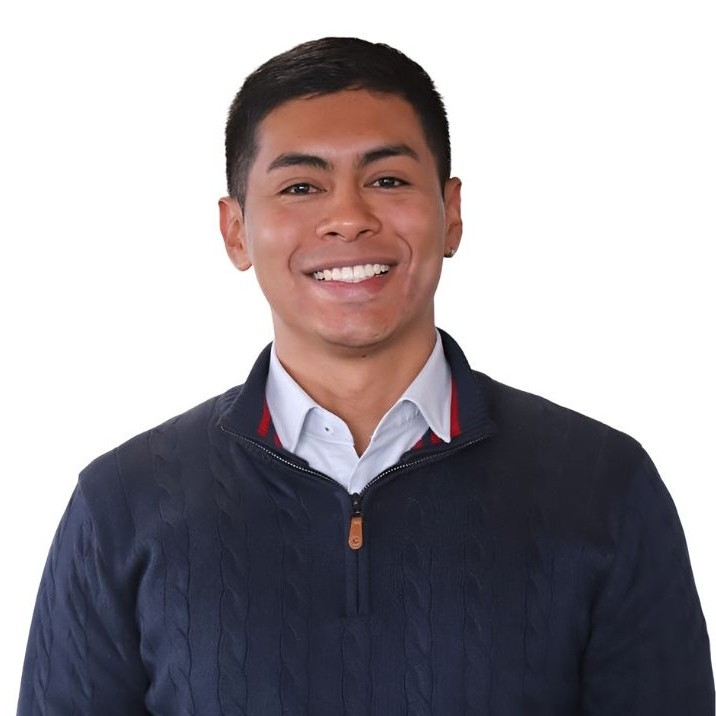
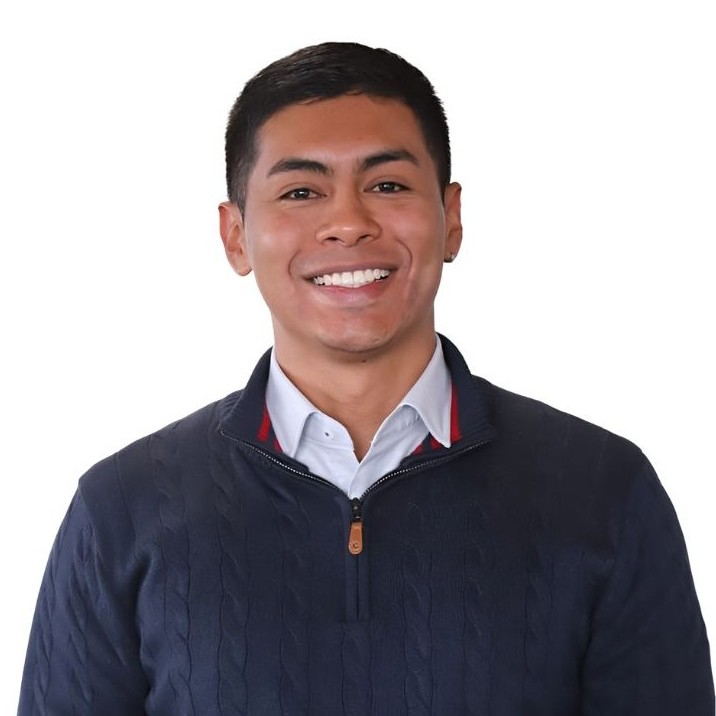
Update academic website

diff --git a/index.html b/index.html
@@ -112,7 +112,7 @@
         </article>
 
         <article class="card compact-card">
-          <h3>Ph.D. in Engineering</h3>
+          <h3>Ph.D. Student in Engineering</h3>
           <p class="muted">Universidad de los Andes · Bogotá, Colombia</p>
         </article>
       </div>
@@ -277,21 +277,19 @@
         <p>Bogotá D.C., Colombia</p>
       </div>
 
-      <div class="social-grid" aria-label="Contact links">
-        <a class="social-link" href="mailto:l.trochez@uniandes.edu.co" aria-label="Email Leffer Trochez">
-          <img src="assets/Email.png" alt="Email" />
-        </a>
+      <p class="contact-icons" aria-label="Contact links">
+        <a href="mailto:l.trochez@uniandes.edu.co" aria-label="Email Leffer Trochez"><img src="assets/Email.png" alt="Email" height="30" valign="middle"></a>
+        &nbsp;
+        <a href="https://www.linkedin.com/in/leffer-trochez/" target="_blank" rel="noopener" aria-label="LinkedIn profile"><img src="assets/LinkedIn.png" alt="LinkedIn" height="30" valign="middle"></a>
+        &nbsp;
+        <a href="https://scholar.google.com/citations?user=Ve1E4AEAAAAJ&amp;hl=es&amp;oi=ao" target="_blank" rel="noopener" aria-label="Google Scholar profile"><img src="assets/GoogleScholar.png" alt="Google Scholar" height="30" valign="middle"></a>
+        &nbsp;
+        <a href="https://orcid.org/0009-0002-5321-7652" target="_blank" rel="noopener" aria-label="ORCID profile"><img src="assets/ORCID.png" alt="ORCID" height="30" valign="middle"></a>
+      </p>
 
-        <a class="social-link" href="https://www.linkedin.com/in/leffer-trochez/" target="_blank" rel="noopener" aria-label="LinkedIn profile">
-          <img src="assets/LinkedIn.png" alt="LinkedIn" />
-        </a>
-
-        <a class="social-link" href="https://scholar.google.com/citations?user=Ve1E4AEAAAAJ&amp;hl=es&amp;oi=ao" target="_blank" rel="noopener" aria-label="Google Scholar profile">
-          <img src="assets/GoogleScholar.png" alt="Google Scholar" />
-        </a>
-
-        <a class="social-link" href="https://orcid.org/0009-0002-5321-7652" target="_blank" rel="noopener" aria-label="ORCID profile">
-          <img src="assets/ORCID.png" alt="ORCID" />
+      <div class="contact-logo">
+        <a href="https://electricayelectronica.uniandes.edu.co/" target="_blank" rel="noopener" aria-label="Department of Electrical and Electronic Engineering">
+          <img src="assets/IELElogo.png" alt="Universidad de los Andes - Department of Electrical and Electronic Engineering" class="iele-logo" />
         </a>
       </div>
     </section>

diff --git a/style.css b/style.css
@@ -326,39 +326,37 @@ h3 {
   color: var(--text);
 }
 
-.social-grid {
-  display: flex;
-  align-items: center;
-  flex-wrap: wrap;
-  gap: 0.7rem;
-  justify-content: flex-start;
-  margin-top: 1.15rem;
+.contact-icons {
+  margin-top: 1rem;
+  margin-bottom: 1.2rem;
+  display: block;
+  line-height: 1;
 }
 
-.social-link {
-  width: 34px;
-  height: 34px;
-  display: inline-flex;
-  align-items: center;
-  justify-content: center;
-  border: 0;
-  background: transparent;
-  border-radius: 8px;
-  line-height: 0;
-  transition: transform 0.2s ease, opacity 0.2s ease;
+.contact-icons a {
+  text-decoration: none;
+  display: inline-block;
+  vertical-align: middle;
 }
 
-.social-link:hover {
-  transform: translateY(-2px);
-  opacity: 0.82;
-}
-
-.social-link img {
-  width: 34px;
-  height: 34px;
-  max-width: 34px;
-  max-height: 34px;
+.contact-icons img {
+  height: 30px !important;
+  width: auto !important;
+  max-height: 30px;
+  max-width: none;
+  display: inline-block;
+  vertical-align: middle;
   object-fit: contain;
+}
+
+.contact-logo {
+  margin-top: 1.6rem;
+  display: block;
+}
+
+.iele-logo {
+  width: min(450px, 100%);
+  height: auto;
   display: block;
 }
 
@@ -419,6 +417,10 @@ h3 {
 }
 
 @media (max-width: 520px) {
+  .iele-logo {
+    width: min(320px, 100%);
+  }
+
   .section {
     padding: 4rem 1rem;
   }

diff --git a/README.md b/README.md
@@ -22,7 +22,12 @@ assets/
 - Updated the hero topic to:
   `Robotics and Control Systems`.
 - Replaced the profile image path with:
-  `assets/Profile.jpg`.
+  `assets/Profile.jpg
+  Email.png
+  GoogleScholar.png
+  LinkedIn.png
+  ORCID.png
+  IELElogo.png`.
 - Updated GitHub, LinkedIn, Google Scholar, Instagram, and email links.
 - Updated the academic background section with B.Sc., M.Sc., and Ph.D. entries.
 - Removed LF - Robotics, the gong project, and the CubeSat project.
